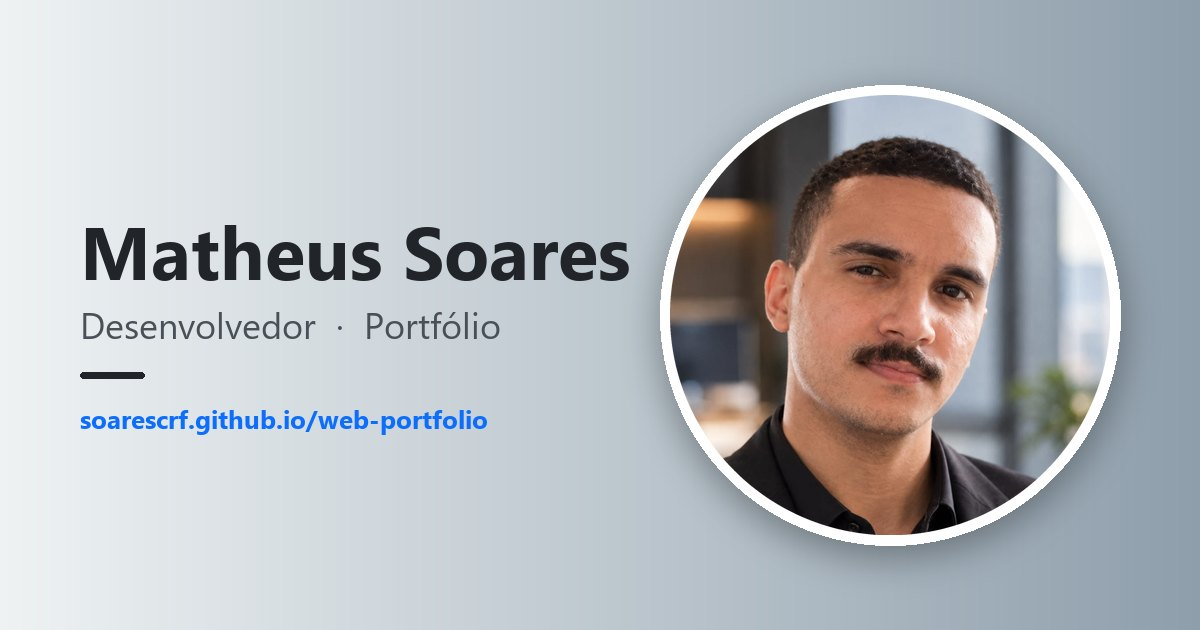
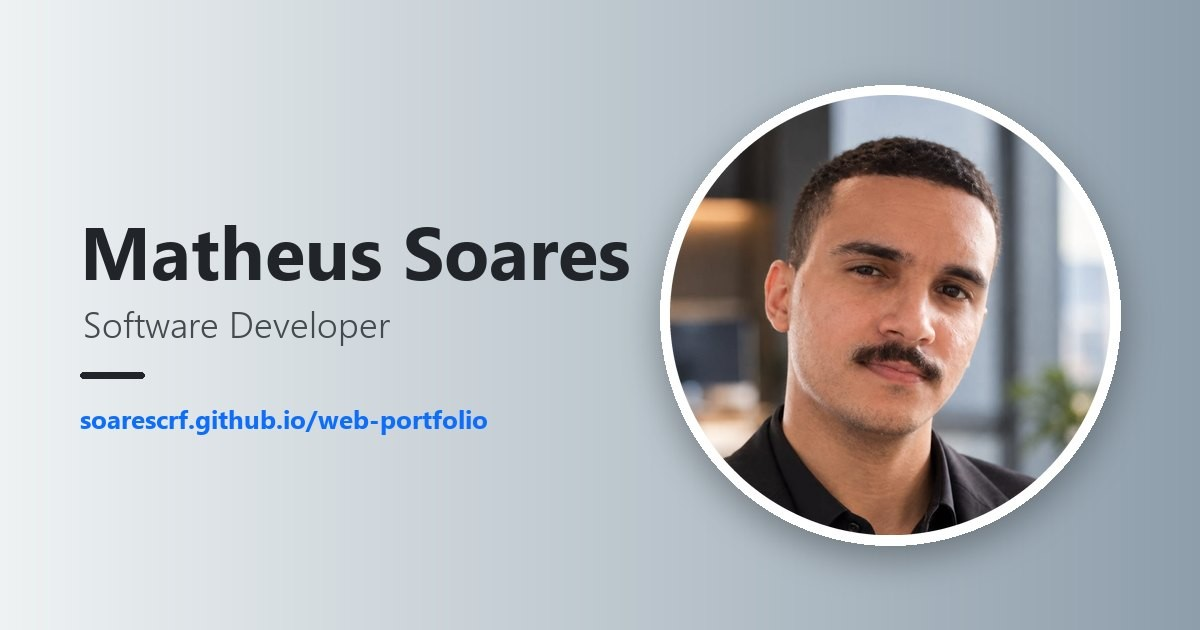
feat(seo): show Software Developer role in Open Graph image
Drop the redundant "Portfolio" label, already implied by the URL, and align og:image:alt in both languages.

Changed region(s): [[0.0617, 0.4825, 0.4317, 0.5429]]

diff --git a/index.html b/index.html
@@ -24,7 +24,7 @@
     <meta property="og:image:type" content="image/jpeg" />
     <meta property="og:image:width" content="1200" />
     <meta property="og:image:height" content="630" />
-    <meta property="og:image:alt" content="Matheus Soares — Desenvolvedor · Portfólio" />
+    <meta property="og:image:alt" content="Matheus Soares — Software Developer" />
     <meta name="twitter:card" content="summary_large_image" />
 
     <link rel="apple-touch-icon" sizes="180x180" href="assets/img/apple-touch-icon.png" />

diff --git a/en/index.html b/en/index.html
@@ -24,7 +24,7 @@
     <meta property="og:image:type" content="image/jpeg" />
     <meta property="og:image:width" content="1200" />
     <meta property="og:image:height" content="630" />
-    <meta property="og:image:alt" content="Matheus Soares — Developer · Portfolio" />
+    <meta property="og:image:alt" content="Matheus Soares — Software Developer" />
     <meta name="twitter:card" content="summary_large_image" />
 
     <link rel="apple-touch-icon" sizes="180x180" href="../assets/img/apple-touch-icon.png" />
